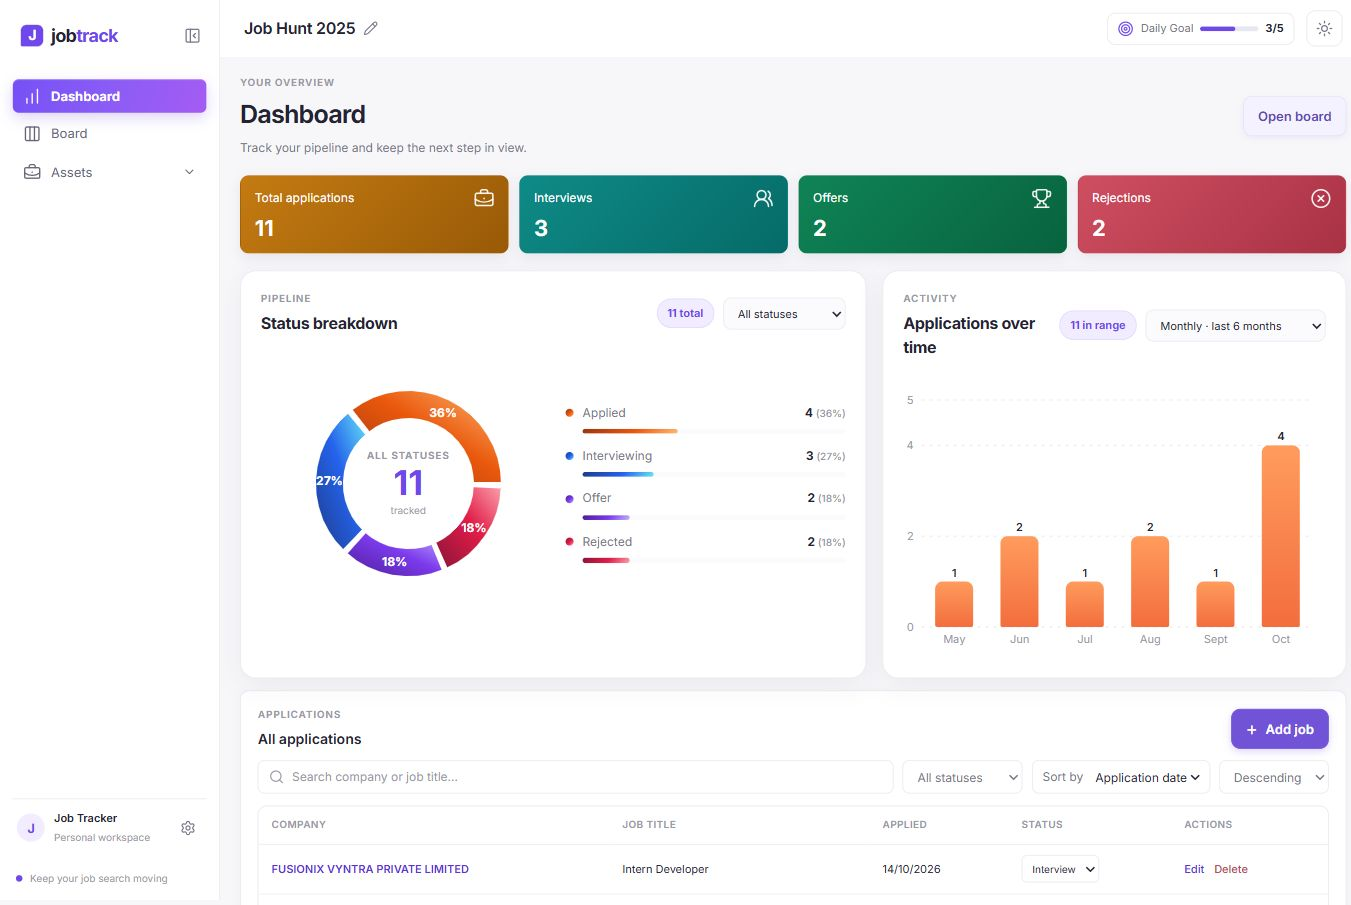
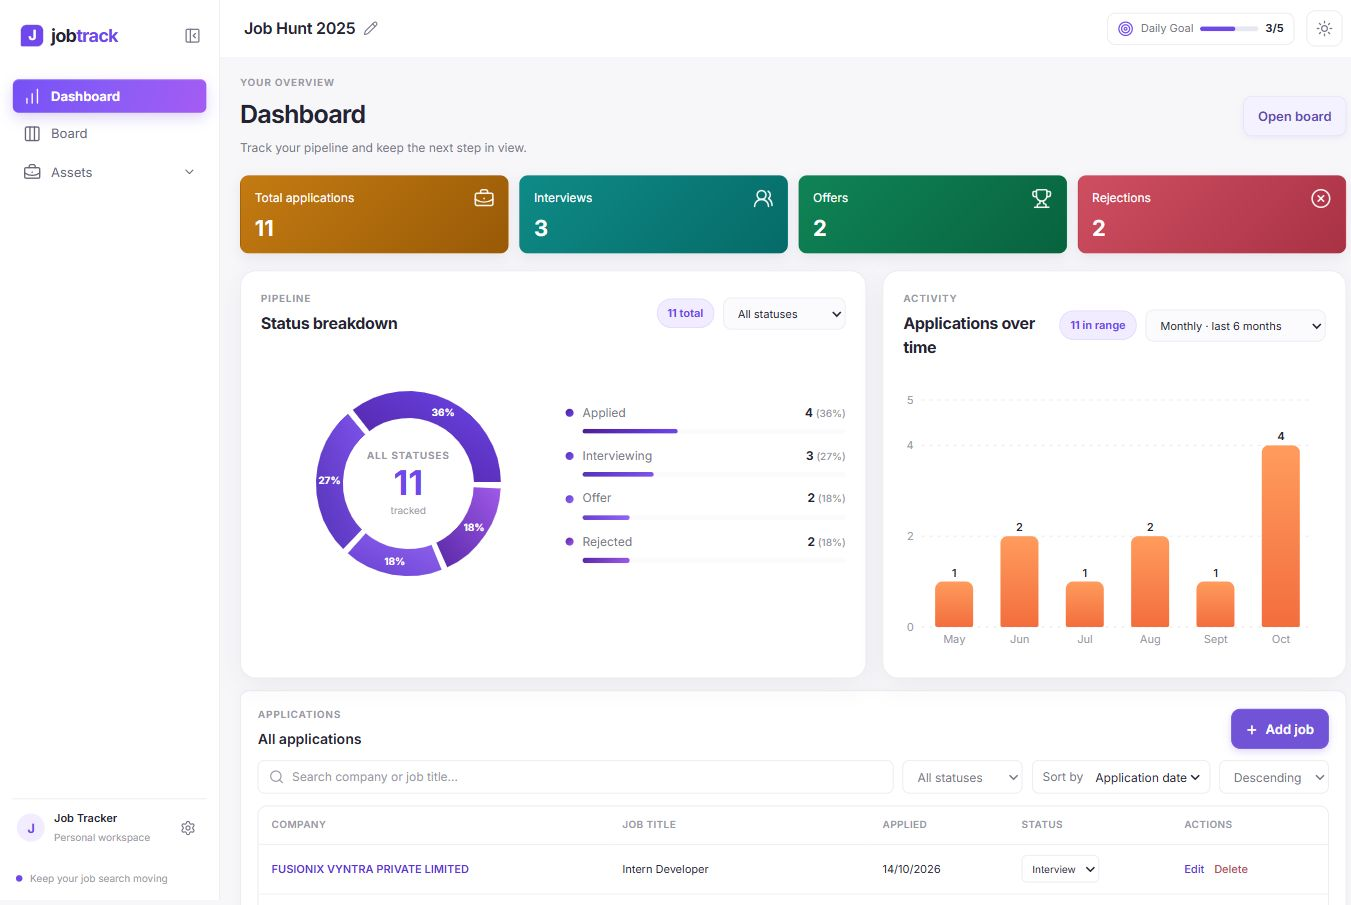
Refine pie chart labels and hover tooltip

Changed region(s): [[0.2176, 0.4331, 0.3731, 0.6497], [0.4352, 0.4641, 0.4974, 0.526], [0.4352, 0.5878, 0.4663, 0.6497]]

diff --git a/src/components/AppPages.js b/src/components/AppPages.js
@@ -6,11 +6,12 @@ import { Bar, BarChart, CartesianGrid, Cell, LabelList, Pie, PieChart, Responsiv
 const STATUSES = ['Applied', 'Interview', 'Offer', 'Rejected'];
 const STATUS_GRADIENTS = { Applied: 'url(#statusAppliedGradient)', Interview: 'url(#statusInterviewGradient)', Offer: 'url(#statusOfferGradient)', Rejected: 'url(#statusRejectedGradient)' };
 const STATUS_SWATCHES = {
-  Applied: 'linear-gradient(135deg, #9a3412, #ea580c 55%, #fdba74)',
-  Interview: 'linear-gradient(135deg, #1e3a8a, #2563eb 55%, #67e8f9)',
-  Offer: 'linear-gradient(135deg, #4c1d95, #7c3aed 55%, #c4b5fd)',
-  Rejected: 'linear-gradient(135deg, #881337, #e11d48 55%, #fda4af)',
+  Applied: 'linear-gradient(135deg, #4c1d95, #6d47ed)',
+  Interview: 'linear-gradient(135deg, #5432b7, #8053ed)',
+  Offer: 'linear-gradient(135deg, #653fd0, #9566f4)',
+  Rejected: 'linear-gradient(135deg, #5726a5, #a15bea)',
 };
+const STATUS_ACCENTS = { Applied: '#a78bfa', Interview: '#9b8afb', Offer: '#b197fc', Rejected: '#c4a1ff' };
 const STAT_CARDS = [
   { label: 'Total applications', key: 'totalApplications', tone: 'amber', icon: 'assets' },
   { label: 'Interviews', key: 'interviews', tone: 'teal', icon: 'interviews' },
@@ -28,7 +29,7 @@ function ChartTooltip({ active, payload, label }) {
   const item = payload[0];
   const title = item.payload?.status || label;
   const count = Number(item.value) || 0;
-  if (item.payload?.status) return <div className="chart-tooltip"><strong>{title}</strong><span>{count} {count === 1 ? 'application' : 'applications'} · {item.payload.percent}%</span></div>;
+  if (item.payload?.status) return <div className="chart-tooltip"><strong>{title}</strong><span>{count} {count === 1 ? 'application' : 'applications'} · <em className="chart-tooltip-percent" style={{ color: STATUS_ACCENTS[item.payload.key] }}>{item.payload.percent}%</em></span></div>;
   if (item.dataKey !== 'count') return null;
   return <div className="chart-tooltip"><strong>{title}</strong><span>{count} {count === 1 ? 'application' : 'applications'}</span></div>;
 }
@@ -101,7 +102,6 @@ function getActivityBuckets(applications = [], period) {
 }
 
 function StatusChart({ applications, loading, error, onRetry, selectedStatus, onStatusFilter }) {
-  const [tooltipPosition, setTooltipPosition] = useState(undefined);
   const visibleApplications = applications || [];
   const counts = visibleApplications.reduce((result, application) => {
     if (STATUSES.includes(application.status)) result[application.status] += 1;
@@ -115,23 +115,22 @@ function StatusChart({ applications, loading, error, onRetry, selectedStatus, on
   const populatedValues = values.filter((entry) => entry.count > 0);
   return <section className="chart-card" aria-label="Applications by status">
     <header><div><p className="eyebrow">PIPELINE</p><h2>Status breakdown</h2></div><div className="chart-header-actions"><span className="chart-total">{selectedStatus ? `${counts[selectedStatus] || 0} ${selectedStatus === 'Interview' ? 'interviewing' : selectedStatus.toLowerCase()}` : `${total} total`}</span><StatusFilterSelect status={selectedStatus} onStatusFilter={onStatusFilter}/></div></header>
-    {loading ? <LoadingState message="Loading status totals…"/> : error ? <div><p className="chart-message">Status breakdown unavailable.</p><Button variant="secondary" onClick={onRetry}>Retry</Button></div> : total === 0 ? <p className="chart-message">No applications yet. Add a job to see your pipeline.</p> : <div className="status-chart max-[760px]:grid-cols-1"><div className="recharts-pie-wrap max-[760px]:h-[220px]" role="img" aria-label={`Status breakdown: ${values.map(({ status, count, percent }) => `${status} ${count} (${percent}%)`).join(', ')}`}><PieChart width={260} height={260} onMouseMove={(state) => { if (Number.isFinite(state?.chartX) && Number.isFinite(state?.chartY)) setTooltipPosition({ x: state.chartX + 12, y: state.chartY + 12 }); }}><defs>
-      <linearGradient id="statusAppliedGradient" x1="0" y1="1" x2="1" y2="0"><stop offset="0%" stopColor="#9a3412"/><stop offset="55%" stopColor="#ea580c"/><stop offset="100%" stopColor="#fdba74"/></linearGradient>
-      <linearGradient id="statusInterviewGradient" x1="0" y1="1" x2="1" y2="0"><stop offset="0%" stopColor="#1e3a8a"/><stop offset="55%" stopColor="#2563eb"/><stop offset="100%" stopColor="#67e8f9"/></linearGradient>
-      <linearGradient id="statusOfferGradient" x1="0" y1="1" x2="1" y2="0"><stop offset="0%" stopColor="#4c1d95"/><stop offset="55%" stopColor="#7c3aed"/><stop offset="100%" stopColor="#c4b5fd"/></linearGradient>
-      <linearGradient id="statusRejectedGradient" x1="0" y1="1" x2="1" y2="0"><stop offset="0%" stopColor="#881337"/><stop offset="55%" stopColor="#e11d48"/><stop offset="100%" stopColor="#fda4af"/></linearGradient>
-    </defs><Pie data={populatedValues} dataKey="count" nameKey="status" innerRadius={64} outerRadius={94} paddingAngle={2} stroke="var(--surface)" strokeWidth={3} isAnimationActive={false} label={{ position: 'inside', dataKey: 'percent', formatter: (percent) => `${percent}%`, fill: '#fff', fontSize: 12, fontWeight: 700 }} labelLine={false} onClick={(entry) => { const key = entry?.payload?.key; if (key) onStatusFilter(selectedStatus === key ? '' : key); }}>{populatedValues.map((entry) => <Cell key={entry.key} fill={STATUS_GRADIENTS[entry.key]} fillOpacity={selectedStatus && selectedStatus !== entry.key ? .38 : 1}/>)}</Pie><Tooltip shared={false} position={tooltipPosition} content={<ChartTooltip/>} wrapperStyle={{ pointerEvents: 'none', zIndex: 5 }}/></PieChart><div className="donut-center"><small>{selectedStatus ? `${selectedStatus === 'Interview' ? 'INTERVIEWING' : selectedStatus.toUpperCase()} SELECTED` : 'ALL STATUSES'}</small><strong>{selectedStatus ? counts[selectedStatus] || 0 : total}</strong><span>{selectedStatus ? 'applications' : 'tracked'}</span></div></div><div className="status-legend">{values.map(({ key, status: itemStatus, count, percent }) => <button type="button" className={`status-legend-item status-legend-filter${selectedStatus && selectedStatus !== key ? ' is-muted' : ''}`} key={key} onClick={() => onStatusFilter(selectedStatus === key ? '' : key)} aria-pressed={selectedStatus === key}><span className="status-dot" style={{ background: STATUS_SWATCHES[key] }}/><span>{itemStatus}</span><strong>{count} <small>({percent}%)</small></strong><span className="status-legend-track"><i style={{ width: `${percent}%`, background: STATUS_SWATCHES[key] }}/></span></button>)}</div></div>}
+    {loading ? <LoadingState message="Loading status totals…"/> : error ? <div><p className="chart-message">Status breakdown unavailable.</p><Button variant="secondary" onClick={onRetry}>Retry</Button></div> : total === 0 ? <p className="chart-message">No applications yet. Add a job to see your pipeline.</p> : <div className="status-chart max-[760px]:grid-cols-1"><div className="recharts-pie-wrap max-[760px]:h-[220px]" role="img" aria-label={`Status breakdown: ${values.map(({ status, count, percent }) => `${status} ${count} (${percent}%)`).join(', ')}`}><PieChart width={260} height={260}><defs>
+      <linearGradient id="statusAppliedGradient" x1="0" y1="1" x2="1" y2="0"><stop offset="0%" stopColor="#4c1d95"/><stop offset="100%" stopColor="#6d47ed"/></linearGradient>
+      <linearGradient id="statusInterviewGradient" x1="0" y1="1" x2="1" y2="0"><stop offset="0%" stopColor="#5432b7"/><stop offset="100%" stopColor="#8053ed"/></linearGradient>
+      <linearGradient id="statusOfferGradient" x1="0" y1="1" x2="1" y2="0"><stop offset="0%" stopColor="#653fd0"/><stop offset="100%" stopColor="#9566f4"/></linearGradient>
+      <linearGradient id="statusRejectedGradient" x1="0" y1="1" x2="1" y2="0"><stop offset="0%" stopColor="#5726a5"/><stop offset="100%" stopColor="#a15bea"/></linearGradient>
+    </defs><Pie data={populatedValues} dataKey="count" nameKey="status" innerRadius={64} outerRadius={94} paddingAngle={2} stroke="var(--surface)" strokeWidth={3} isAnimationActive={false} label={{ position: 'inside', dataKey: 'percent', formatter: (percent) => `${percent}%`, fill: '#fff', fontSize: 10, fontWeight: 700 }} labelLine={false} onClick={(entry) => { const key = entry?.payload?.key; if (key) onStatusFilter(selectedStatus === key ? '' : key); }}>{populatedValues.map((entry) => <Cell key={entry.key} fill={STATUS_GRADIENTS[entry.key]} fillOpacity={selectedStatus && selectedStatus !== entry.key ? .38 : 1}/>)}</Pie><Tooltip shared={false} content={<ChartTooltip/>} wrapperStyle={{ pointerEvents: 'none', zIndex: 5 }}/></PieChart><div className="donut-center"><small>{selectedStatus ? `${selectedStatus === 'Interview' ? 'INTERVIEWING' : selectedStatus.toUpperCase()} SELECTED` : 'ALL STATUSES'}</small><strong>{selectedStatus ? counts[selectedStatus] || 0 : total}</strong><span>{selectedStatus ? 'applications' : 'tracked'}</span></div></div><div className="status-legend">{values.map(({ key, status: itemStatus, count, percent }) => <button type="button" className={`status-legend-item status-legend-filter${selectedStatus && selectedStatus !== key ? ' is-muted' : ''}`} key={key} onClick={() => onStatusFilter(selectedStatus === key ? '' : key)} aria-pressed={selectedStatus === key}><span className="status-dot" style={{ background: STATUS_SWATCHES[key] }}/><span>{itemStatus}</span><strong>{count} <small>({percent}%)</small></strong><span className="status-legend-track"><i style={{ width: `${percent}%`, background: STATUS_SWATCHES[key] }}/></span></button>)}</div></div>}
   </section>;
 }
 
 function MonthlyChart({ applications, loading, error, onRetry, period, onPeriodChange }) {
-  const [tooltipPosition, setTooltipPosition] = useState(undefined);
   const buckets = getActivityBuckets(applications || [], period);
   const total = buckets.reduce((sum, bucket) => sum + bucket.count, 0);
   const config = ACTIVITY_PERIODS[period] || ACTIVITY_PERIODS.monthly;
   return <section className="chart-card" aria-label="Applications created by month">
     <header><div><p className="eyebrow">ACTIVITY</p><h2>Applications over time</h2></div><div className="chart-header-actions"><span className="chart-total">{total} in range</span><ActivityPeriodSelect period={period} onPeriodChange={onPeriodChange}/></div></header>
-    {loading ? <LoadingState message="Loading activity…"/> : error ? <div><p className="chart-message">Application history unavailable.</p><Button variant="secondary" onClick={onRetry}>Retry</Button></div> : total === 0 ? <p className="chart-message">No applications in this period yet. Add a job to see activity.</p> : <div className="monthly-chart" role="img" aria-label={`Applications grouped ${config.unit} for the selected period: ${buckets.map((bucket) => `${bucket.label} ${bucket.count}`).join(', ')}`}><ResponsiveContainer width="100%" height="100%"><BarChart data={buckets} margin={{ top: 20, right: 10, bottom: 0, left: -18 }} onMouseMove={(state) => { if (Number.isFinite(state?.chartX) && Number.isFinite(state?.chartY)) setTooltipPosition({ x: state.chartX + 12, y: state.chartY + 12 }); }}><defs><linearGradient id="applicationBarGradient" x1="0" y1="0" x2="0" y2="1"><stop offset="0%" stopColor="#ff9b5d"/><stop offset="100%" stopColor="#f36e3d"/></linearGradient></defs><CartesianGrid vertical={false} stroke="var(--border)" strokeDasharray="3 5"/><XAxis dataKey="label" interval={period === 'weekly' ? 1 : 0} tick={{ fill: 'var(--muted)', fontSize: 11 }} axisLine={false} tickLine={false}/><YAxis allowDecimals={false} domain={[0, 'dataMax + 1']} width={34} tick={{ fill: 'var(--muted)', fontSize: 11 }} axisLine={false} tickLine={false}/><Tooltip shared={false} position={tooltipPosition} cursor={{ fill: 'var(--surface-muted)', opacity: .7 }} content={<ChartTooltip/>} wrapperStyle={{ pointerEvents: 'none', zIndex: 5 }}/><Bar dataKey="count" name="Applications" fill="url(#applicationBarGradient)" radius={[7, 7, 2, 2]} activeBar={{ fill: '#e7672d' }} maxBarSize={period === 'monthly' ? 38 : 28} isAnimationActive={false}><LabelList dataKey="count" position="top" fill="var(--text)" fontSize={11} fontWeight={600}/></Bar></BarChart></ResponsiveContainer></div>}
+    {loading ? <LoadingState message="Loading activity…"/> : error ? <div><p className="chart-message">Application history unavailable.</p><Button variant="secondary" onClick={onRetry}>Retry</Button></div> : total === 0 ? <p className="chart-message">No applications in this period yet. Add a job to see activity.</p> : <div className="monthly-chart" role="img" aria-label={`Applications grouped ${config.unit} for the selected period: ${buckets.map((bucket) => `${bucket.label} ${bucket.count}`).join(', ')}`}><ResponsiveContainer width="100%" height="100%"><BarChart data={buckets} margin={{ top: 20, right: 10, bottom: 0, left: -18 }}><defs><linearGradient id="applicationBarGradient" x1="0" y1="0" x2="0" y2="1"><stop offset="0%" stopColor="#ff9b5d"/><stop offset="100%" stopColor="#f36e3d"/></linearGradient></defs><CartesianGrid vertical={false} stroke="var(--border)" strokeDasharray="3 5"/><XAxis dataKey="label" interval={period === 'weekly' ? 1 : 0} tick={{ fill: 'var(--muted)', fontSize: 11 }} axisLine={false} tickLine={false}/><YAxis allowDecimals={false} domain={[0, 'dataMax + 1']} width={34} tick={{ fill: 'var(--muted)', fontSize: 11 }} axisLine={false} tickLine={false}/><Tooltip shared={false} cursor={{ fill: 'var(--surface-muted)', opacity: .7 }} content={<ChartTooltip/>} wrapperStyle={{ pointerEvents: 'none', zIndex: 5 }}/><Bar dataKey="count" name="Applications" fill="url(#applicationBarGradient)" radius={[7, 7, 2, 2]} activeBar={{ fill: '#e7672d' }} maxBarSize={period === 'monthly' ? 38 : 28} isAnimationActive={false}><LabelList dataKey="count" position="top" fill="var(--text)" fontSize={11} fontWeight={600}/></Bar></BarChart></ResponsiveContainer></div>}
   </section>;
 }
 

diff --git a/src/index.css b/src/index.css
@@ -2078,6 +2078,11 @@ button:focus-visible,a:focus-visible,input:focus-visible,select:focus-visible,te
   font-size: 10px;
 }
 
+.chart-tooltip-percent {
+  font-style: normal;
+  font-weight: 700;
+}
+
 .recharts-sector:focus {
   outline: none;
 }
